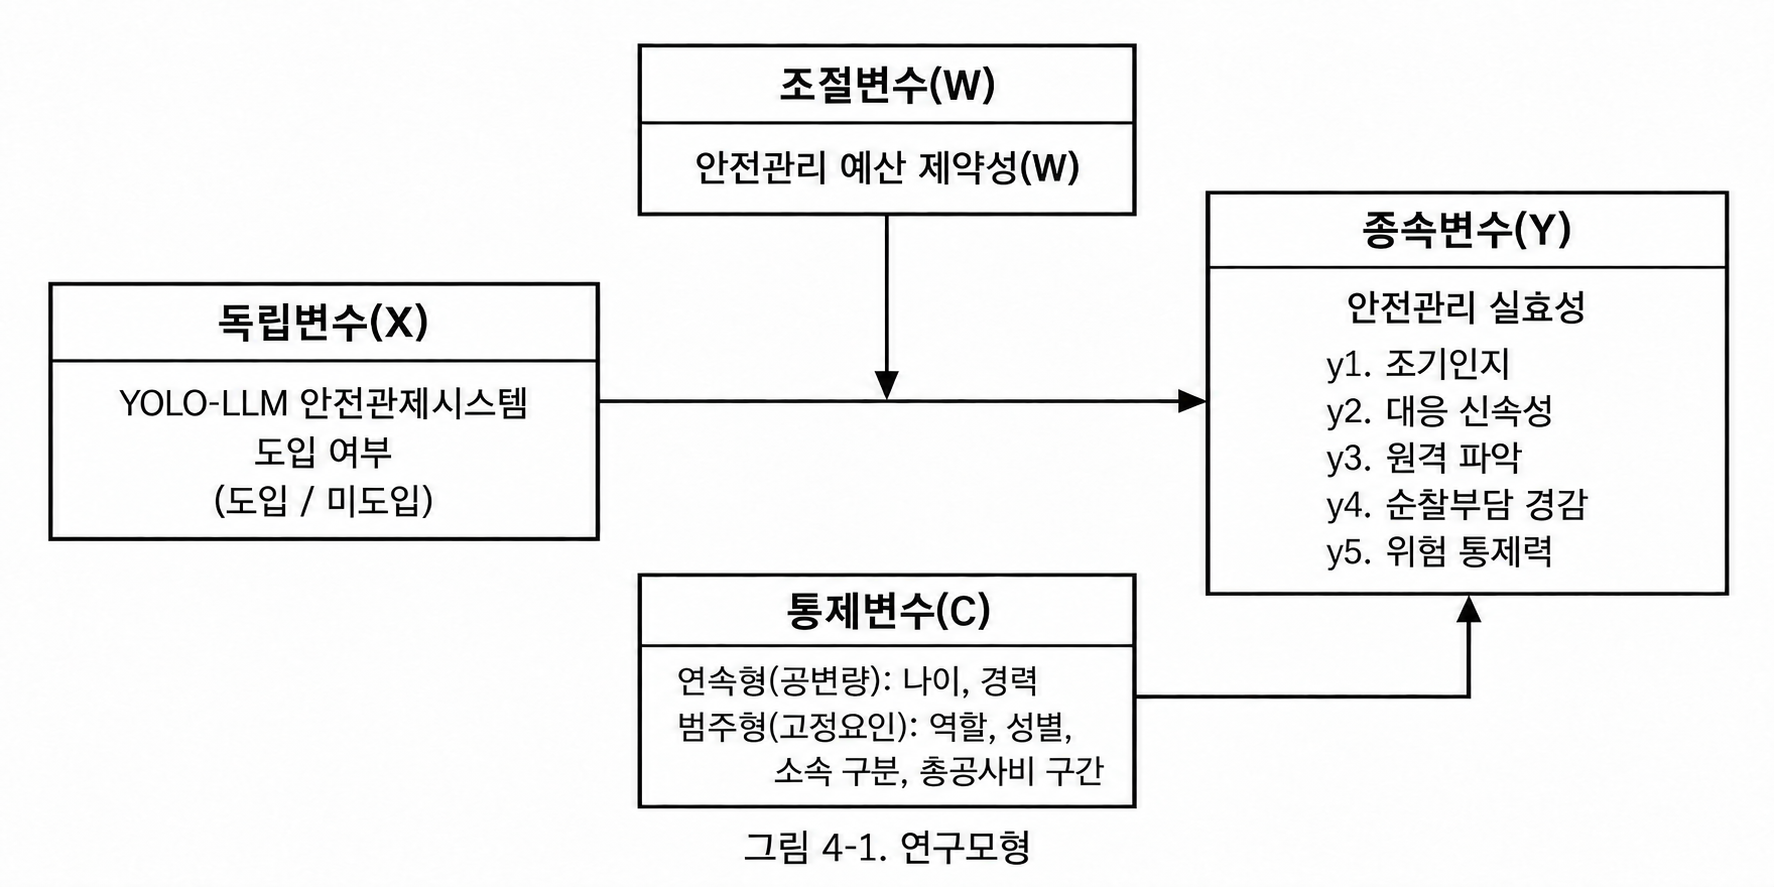
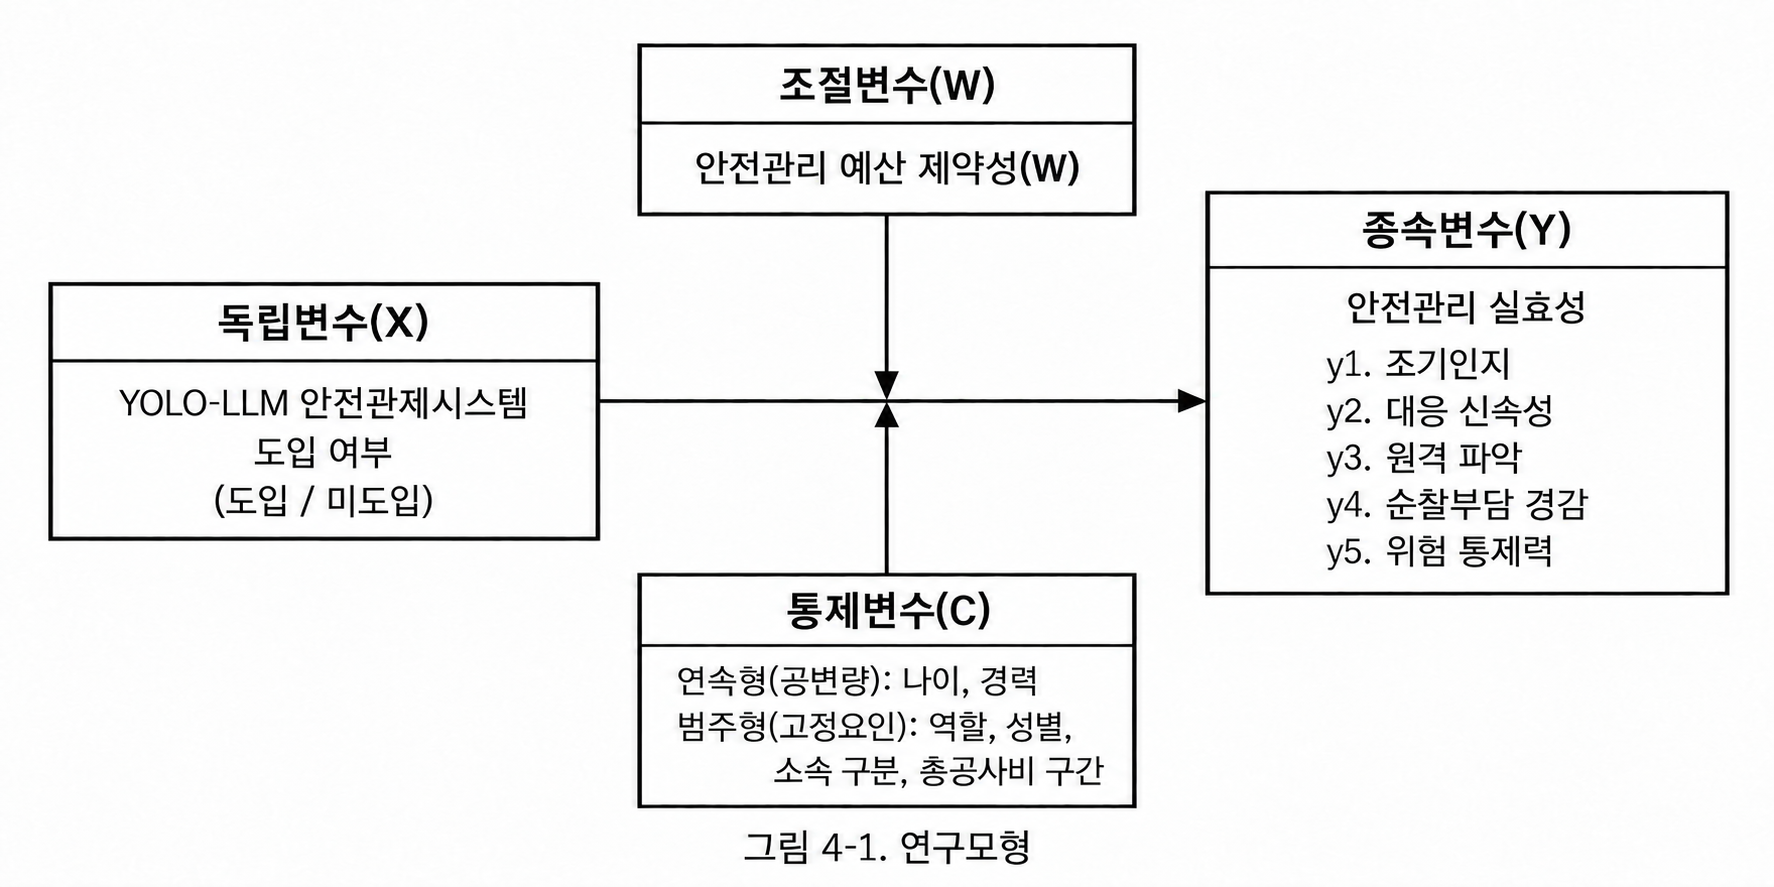
그림 4-1 통제변수 화살표 수정 및 변수 명칭 교정 기록

diff --git a/01.docs/04_연구설계및실증분석.md b/01.docs/04_연구설계및실증분석.md
@@ -28,7 +28,7 @@
 | 조절변수(W) | 안전관리 예산 제약성 | 현장 도입 여부×예산 제약성 상호작용의 방향과 효과크기를 검토하는 공통 응답 변수 |
 | 참고 변수 | 현장 운영 특성(도입·미도입 현장 공통), 시스템 특성 인식(A1∼A4)·경보 피로도 완화 인식(도입 현장) | 주 분석에 투입하지 않는 응답 변수. 현장 운영 특성은 위험 인지 경로·시점·지시 전달 소요시간의 도입·미도입 현장별 교차표를 보고하고 A-7·A-8 운용 실태 확인(민감도 분석 부분표본), A-9 <표 4-6> 해석에 쓰며, 시스템 특성 인식·경보 피로도 완화 인식은 도입 현장의 기술통계만 보고 |
 
-연구 모형은 YOLO-LLM 안전관제시스템 도입 여부(X)에 따른 안전관리 실효성(Y)의 조정 평균 차이와 안전관리 예산 제약성(W)의 조절 관계를 검토하도록 설정하였다. 통제변수(C)는 연속형 공변량인 나이·경력과 범주형 고정요인인 역할·성별·소속 구분·총공사비 구간으로 구성하고, 종속변수에 직접 연결하였다.
+연구 모형은 YOLO-LLM 안전관제시스템 도입 여부(X)에 따른 안전관리 실효성(Y)의 조정 평균 차이와 안전관리 예산 제약성(W)의 조절 관계를 검토하도록 설정하였다. 통제변수(C)는 연속형 공변량인 나이·경력과 범주형 고정요인인 역할·성별·소속 구분·총공사비 구간으로 구성하고, 이들 변수를 조정하여 도입·미도입 현장 간 차이를 비교하였다.
 
 ![연구 모형: YOLO-LLM 안전관제시스템 도입 여부(X), 안전관리 실효성(Y), 안전관리 예산 제약성(W), 통제변수(C)](figures/research/figure_4-1_research_model_261029.png)
 

diff --git a/MEMORY.md b/MEMORY.md
@@ -4,6 +4,10 @@
 
 ## Notation Registry (변수·용어 규칙)
 
+- [LEARN:notation] 연구모형 독립변수명에 ‘YOLO-LLM 기반 안전관제 시스템’을 임의 사용 → ‘YOLO-LLM 안전관제시스템’으로 통일하고 ‘기반’을 덧붙이지 않는다(2026-10-29 사용자 교정).
+
+- [LEARN:notation] 연구모형 그림에서 안전관리 예산 제약성을 C로 쓰거나 설문 C영역으로 해명함 → 안전관리 예산 제약성은 조절변수(W), 통제변수는 C로 표기한다(2026-10-29 사용자 교정).
+
 - [LEARN:notation] 3장의 '아키텍처'(헤딩·그림 3-1 캡션·본문) → '시스템 구조'/'구조'(2026-10-24 지도 '용어 아키텍처 변경'; 대체어는 2026-10-25 권고안 확정, 영문 병기 dual-cascade는 유지) — applies when: 3장 시스템 설계 서술·그림 캡션·목차
 - [LEARN:notation] 설문 A-8의 ‘순찰과 순찰 사이에 생긴 위험 상황’ → ‘비점검 시간에 생긴 위험 상황’으로 쉽게 표현함(2026-10-12 사용자 교정).
 
